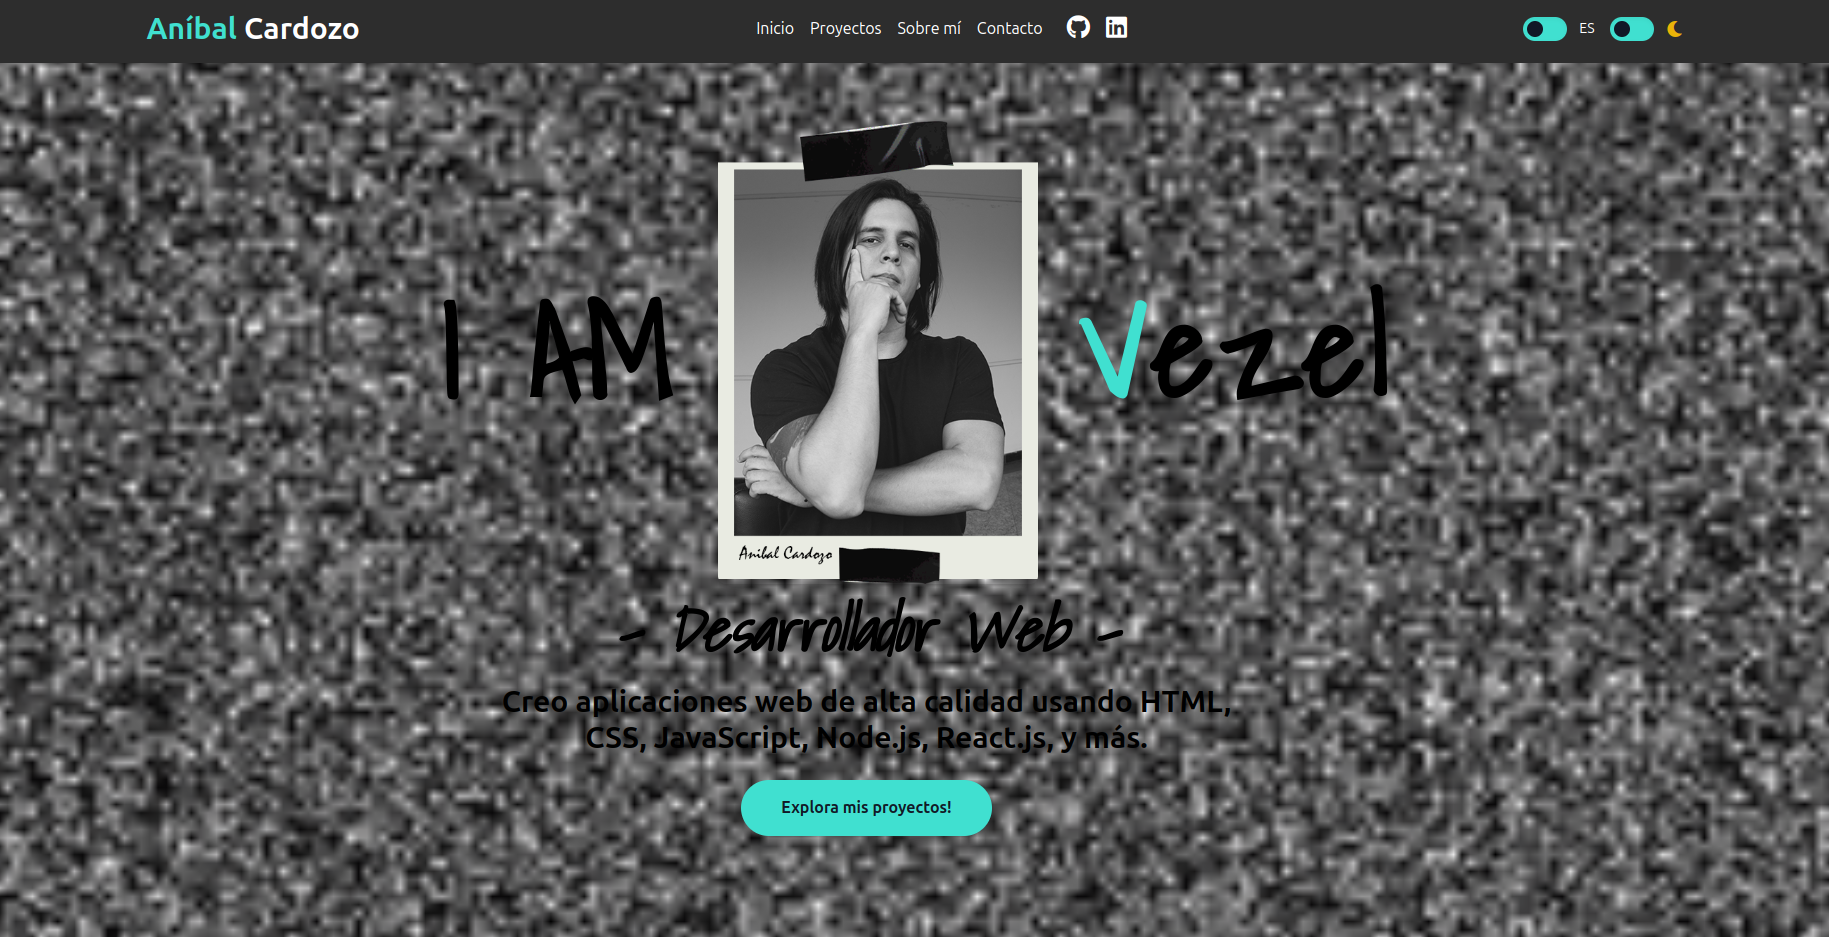
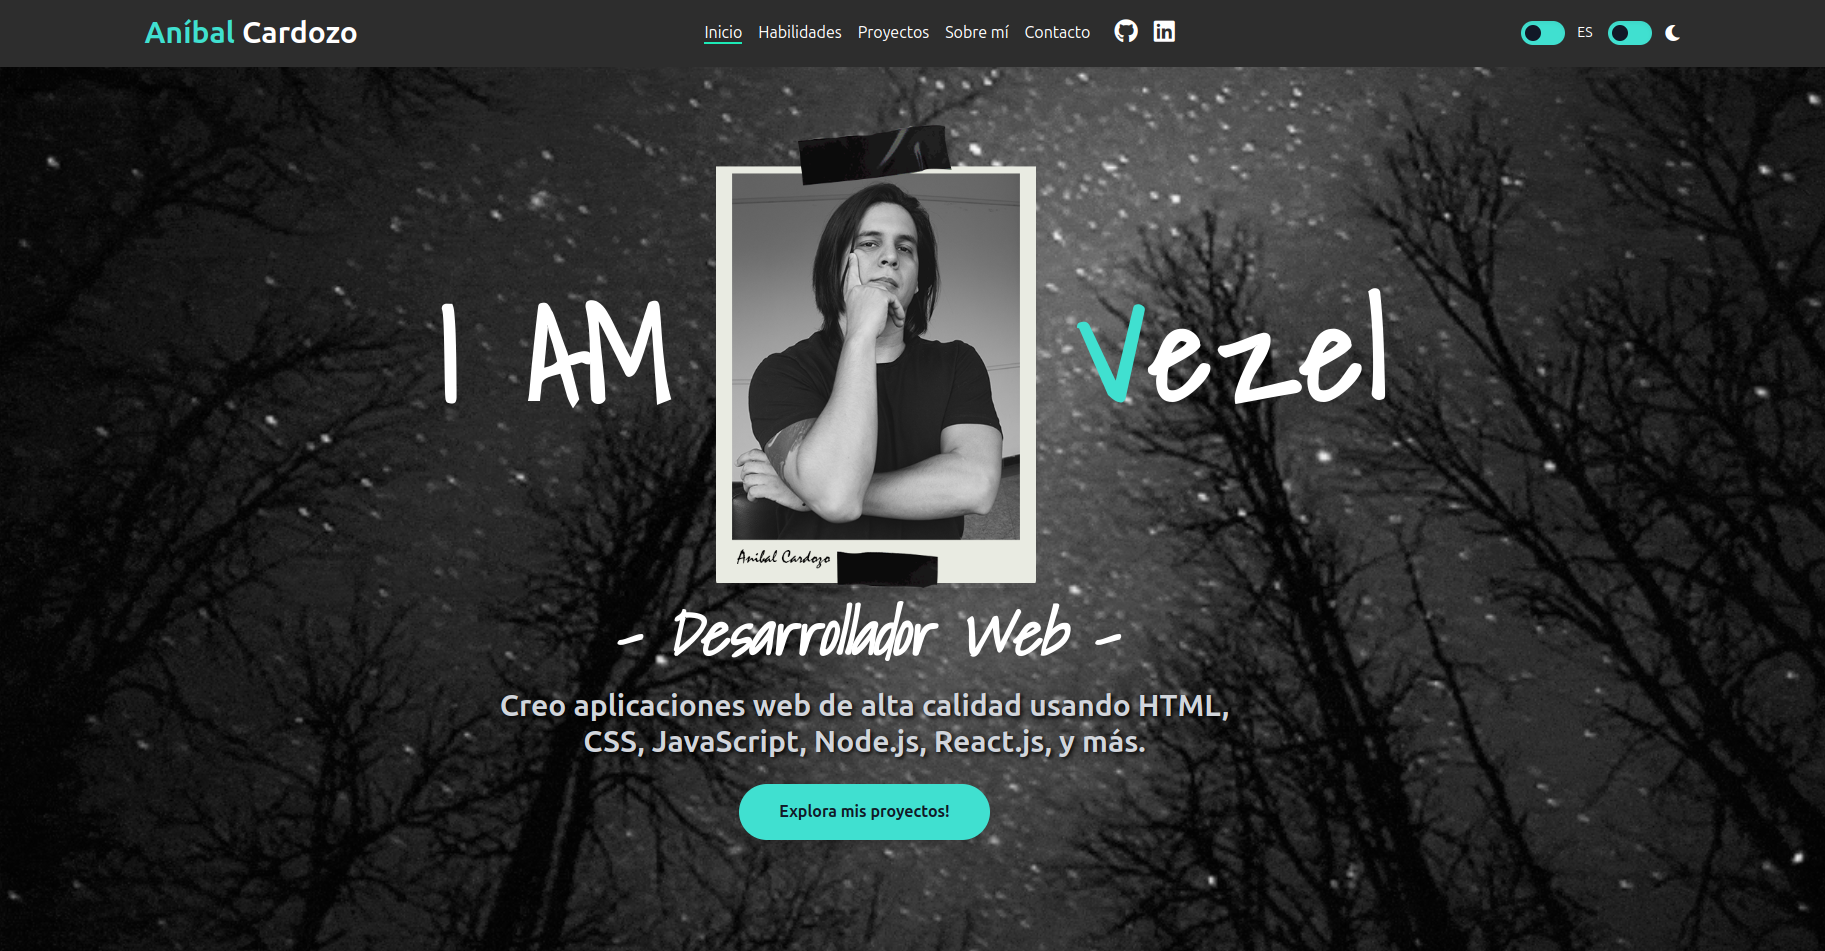
Terminamos casi, ahora lo que necesitamos es probar los mensajes

diff --git a/index.html b/index.html
@@ -72,7 +72,7 @@
     <!-- Contenedor que contiene "I AM", la imagen y "Vezel" -->
     <div class="flex flex-col md:flex-row items-center justify-center space-x-10">
         <!-- Texto 'I AM' a la izquierda (oculto en pantallas pequeñas) -->
-        <h1 class="text-9xl font-bold tracking-wider text-black font-handwritten hidden md:block">
+        <h1 class="text-9xl font-bold tracking-wider text-white font-handwritten hidden md:block">
           I AM
         </h1>
 
@@ -83,18 +83,19 @@
 
         <!-- Texto 'Vezel' a la derecha (oculto en pantallas pequeñas) -->
         <h1 class="text-9xl font-bold tracking-wider hidden md:block">
-          <span class="text-light-turquoise font-handwritten">V</span><span class="text-black font-handwritten">ezel</span>
+          <span class="text-light-turquoise font-handwritten">V</span><span class="text-white font-handwritten">ezel</span>
         </h1>
     </div>
 
     <!-- Descripción debajo de "I AM", la imagen y "Vezel" -->
     <div class="text-center mt-16 space-y-6 transform -translate-x-12">
-      <h2 id="webDevText" class="text-6xl font-handwritten italic text-black font-handwritten font-bold">
+      <h2 id="webDevText" class="text-6xl font-handwritten italic text-white font-bold">
         - Desarrollador Web -
       </h2>
-      <p id="descriptionText" class="text-3xl max-w-3xl mx-auto font-bold text-gray-300 dark:text-black">
+      <p id="descriptionText" class="text-3xl max-w-3xl mx-auto font-bold text-gray-300" style="text-shadow: 2px 2px 4px rgb(0, 0, 0);">
         Creo aplicaciones web de alta calidad usando HTML, CSS, JavaScript, Node.js, React.js, y más.
       </p>
+      
 
       <!-- Botón de proyectos centrado debajo de la descripción -->
       <a id="exploreButton" href="#proyectos" class="mt-8 bg-light-turquoise text-gray-900 font-bold py-4 px-10 rounded-full hover:bg-gray-900 hover:text-white transition-colors duration-300 shadow-lg inline-block">
@@ -229,12 +230,12 @@
         
         <!-- Proyecto 3 -->
         <div class="bg-gray-300 p-4 rounded-lg shadow-lg dark:bg-medium-gray transform transition-transform duration-300 hover:shadow-2xl hover:translate-y-2">
-          <img src="path_to_image_3.jpg" alt="Imagen del Proyecto 3" class="mb-4 rounded-lg">
-          <h3 id="proyecto3" class="text-xl font-semibold mb-2 text-black dark:text-light-turquoise">Texto distinto</h3>
-          <p id="proyecto3Desc" class="text-black dark:text-gray-100 proyecto-descripcion">Aquí debe ir un nuevo texto distinto.</p>
+          <img src="images/clima_cli.png" alt="Imagen del Proyecto 3" class="mb-4 rounded-lg">
+          <h3 id="proyecto3" class="text-xl font-semibold mb-2 text-black dark:text-light-turquoise">Aplicacion de consulta Api y comandos CLI</h3>
+          <p id="proyecto3Desc" class="text-black dark:text-gray-100 proyecto-descripcion">Aplicacion de consulta API y creacion de comandos CLI, aqui implemente mis conocimientos en Python, Librerias y Backend.</p>
           <div class="mt-4 space-x-4">
-            <a id="proyecto3Btn" href="#" target="_blank" class="inline-block bg-light-turquoise text-gray-900 font-bold py-2 px-4 rounded hover:bg-gray-900 hover:text-white transition-colors duration-300">Ver Proyecto</a>
-            <a id="proyecto3Repo" href="https://github.com/tu-github-repo3" target="_blank" class="inline-block bg-gray-700 text-white font-bold py-2 px-4 rounded hover:bg-light-turquoise hover:text-gray-900 transition-colors duration-300">Ver Repositorio</a>
+            <a id="proyecto3Btn" href="https://github.com/Vezelda/clima_cli" target="_blank" class="inline-block bg-light-turquoise text-gray-900 font-bold py-2 px-4 rounded hover:bg-gray-900 hover:text-white transition-colors duration-300">Ver Proyecto</a>
+            <a id="proyecto3Repo" href="https://github.com/Vezelda/clima_cli" target="_blank" class="inline-block bg-gray-700 text-white font-bold py-2 px-4 rounded hover:bg-light-turquoise hover:text-gray-900 transition-colors duration-300">Ver Repositorio</a>
           </div>
         </div>
       </div>
@@ -248,7 +249,7 @@
   <div class="container mx-auto flex flex-col md:flex-row items-center space-y-8 md:space-y-0 md:space-x-16">
     <!-- Imagen personal -->
     <div class="md:w-1/3">
-      <img src="images/yo.png" alt="Aníbal Cardozo" class="rounded-full shadow-lg max-w-full">
+      <img src="images/yo2.png" alt="Aníbal Cardozo" class="rounded-full shadow-lg max-w-full">
     </div>
     
     <!-- Texto sobre mí -->
@@ -281,27 +282,33 @@
 </section>
 
 
-<!-- Sección de Contacto Mejorada -->
+<!-- Sección de Contacto Mejorada con Netlify -->
 <section id="contacto" class="py-16 bg-gray-200 text-gray-900 dark:bg-dark-gray dark:text-gray-100">
   <div class="container mx-auto text-center">
     <h2 class="text-3xl font-bold mb-8 text-black dark:text-light-turquoise">Contacto</h2>
-    <form class="max-w-lg mx-auto">
+    <form name="contacto" method="POST" data-netlify="true" netlify-honeypot="bot-field" class="max-w-lg mx-auto">
+      <!-- Campo oculto para Netlify Honeypot -->
+      <input type="hidden" name="form-name" value="contacto" />
+      <p class="hidden">
+        <label>No llenar: <input name="bot-field" /></label>
+      </p>
+
       <!-- Nombre -->
       <div class="relative mb-4">
         <i class="fas fa-user absolute left-3 top-3 text-gray-400"></i>
-        <input type="text" id="nombreInput" placeholder="Nombre" required class="w-full p-3 pl-12 border border-gray-300 rounded bg-white text-black dark:bg-gray-300 dark:border-gray-500 dark:text-black focus:outline-none focus:ring-2 focus:ring-light-turquoise">
+        <input type="text" name="nombre" id="nombreInput" placeholder="Nombre" required class="w-full p-3 pl-12 border border-gray-300 rounded bg-white text-black dark:bg-gray-300 dark:border-gray-500 dark:text-black focus:outline-none focus:ring-2 focus:ring-light-turquoise">
       </div>
 
       <!-- Correo -->
       <div class="relative mb-4">
         <i class="fas fa-envelope absolute left-3 top-3 text-gray-400"></i>
-        <input type="email" id="correoInput" placeholder="Correo" required class="w-full p-3 pl-12 border border-gray-300 rounded bg-white text-black dark:bg-gray-300 dark:border-gray-500 dark:text-black focus:outline-none focus:ring-2 focus:ring-light-turquoise">
+        <input type="email" name="correo" id="correoInput" placeholder="Correo" required class="w-full p-3 pl-12 border border-gray-300 rounded bg-white text-black dark:bg-gray-300 dark:border-gray-500 dark:text-black focus:outline-none focus:ring-2 focus:ring-light-turquoise">
       </div>
 
       <!-- Mensaje -->
       <div class="relative mb-4">
         <i class="fas fa-comment-dots absolute left-3 top-3 text-gray-400"></i>
-        <textarea id="mensajeTextarea" placeholder="Mensaje" required class="w-full p-3 pl-12 border border-gray-300 rounded bg-white text-black dark:bg-gray-300 dark:border-gray-500 dark:text-black focus:outline-none focus:ring-2 focus:ring-light-turquoise"></textarea>
+        <textarea name="mensaje" id="mensajeTextarea" placeholder="Mensaje" required class="w-full p-3 pl-12 border border-gray-300 rounded bg-white text-black dark:bg-gray-300 dark:border-gray-500 dark:text-black focus:outline-none focus:ring-2 focus:ring-light-turquoise"></textarea>
       </div>
 
       <!-- Botón de envío -->
@@ -310,18 +317,19 @@
 
     <!-- Opciones de contacto alternativo -->
     <div class="mt-8 flex justify-center space-x-6">
-      <a href="https://github.com/tu-github" target="_blank" class="text-gray-900 hover:text-light-turquoise dark:text-white hover:text-light-turquoise">
+      <a href="https://github.com/Vezelda" target="_blank" class="text-gray-900 hover:text-light-turquoise dark:text-white dark:hover:text-light-turquoise">
         <i class="fab fa-github text-2xl"></i>
       </a>
-      <a href="https://www.linkedin.com/in/tu-linkedin" target="_blank" class="text-gray-900 hover:text-light-turquoise dark:text-white hover:text-light-turquoise">
+      <a href="https://www.linkedin.com/in/anibal-cardozo-898738179/" target="_blank" class="text-gray-900 hover:text-light-turquoise dark:text-white dark:hover:text-light-turquoise">
         <i class="fab fa-linkedin text-2xl"></i>
       </a>
-      <a href="mailto:mfverypro@gmail.com" class="text-gray-900 hover:text-light-turquoise dark:text-white hover:text-light-turquoise">
+      <a href="mailto:mfverypro@gmail.com" class="text-gray-900 hover:text-light-turquoise dark:text-white dark:hover:text-light-turquoise">
         <i class="fas fa-envelope text-2xl"></i>
       </a>
     </div>
   </div>
 </section>
+
 
 
   <!-- Footer -->

diff --git a/scripts.js b/scripts.js
@@ -22,8 +22,8 @@ function cambiarIdioma() {
       'proyecto2Desc': 'Pagina Web desarrollada para mostrar el trabajo de mi Padre, aplicando mis conocimientos en HTML, CSS, JavaScript, Diseño Grafico, Diseño UX/UI.',
       'proyecto2Btn': 'Ver Proyecto',
       'proyecto2Repo': 'Ver Repositorio',
-      'proyecto3': 'Texto distinto',
-      'proyecto3Desc': 'Aquí debe ir un nuevo texto distinto.',
+      'proyecto3': 'Aplicacion de consulta Api y comandos CLI',
+      'proyecto3Desc': 'Aplicacion de consulta API y creacion de comandos CLI, aqui implemente mis conocimientos en Python, Librerias y Backend.',
       'proyecto3Btn': 'Ver Proyecto',
       'proyecto3Repo': 'Ver Repositorio',
       'sobreMiDescripcion': 'Soy Aníbal Cardozo, un desarrollador con experiencia en proyectos web y optimización de algoritmos.',
@@ -67,8 +67,8 @@ function cambiarIdioma() {
       'proyecto2Desc': "Web page developed to show my Father's work, applying my knowledge in HTML, CSS, JavaScript, Graphic Design, UX / UI Design.",
       'proyecto2Btn': 'View Project',
       'proyecto2Repo': 'View Repository',
-      'proyecto3': 'Different Text',
-      'proyecto3Desc': 'This should be a new different text.',
+      'proyecto3': 'Api query application and CLI commands',
+      'proyecto3Desc': 'API query application and CLI command creation, here implement my knowledge in Python, Libreries and Backend.',
       'proyecto3Btn': 'View Project',
       'proyecto3Repo': 'View Repository',
       'sobreMiDescripcion': 'I am Aníbal Cardozo, a developer with experience in web projects and algorithm optimization.',
